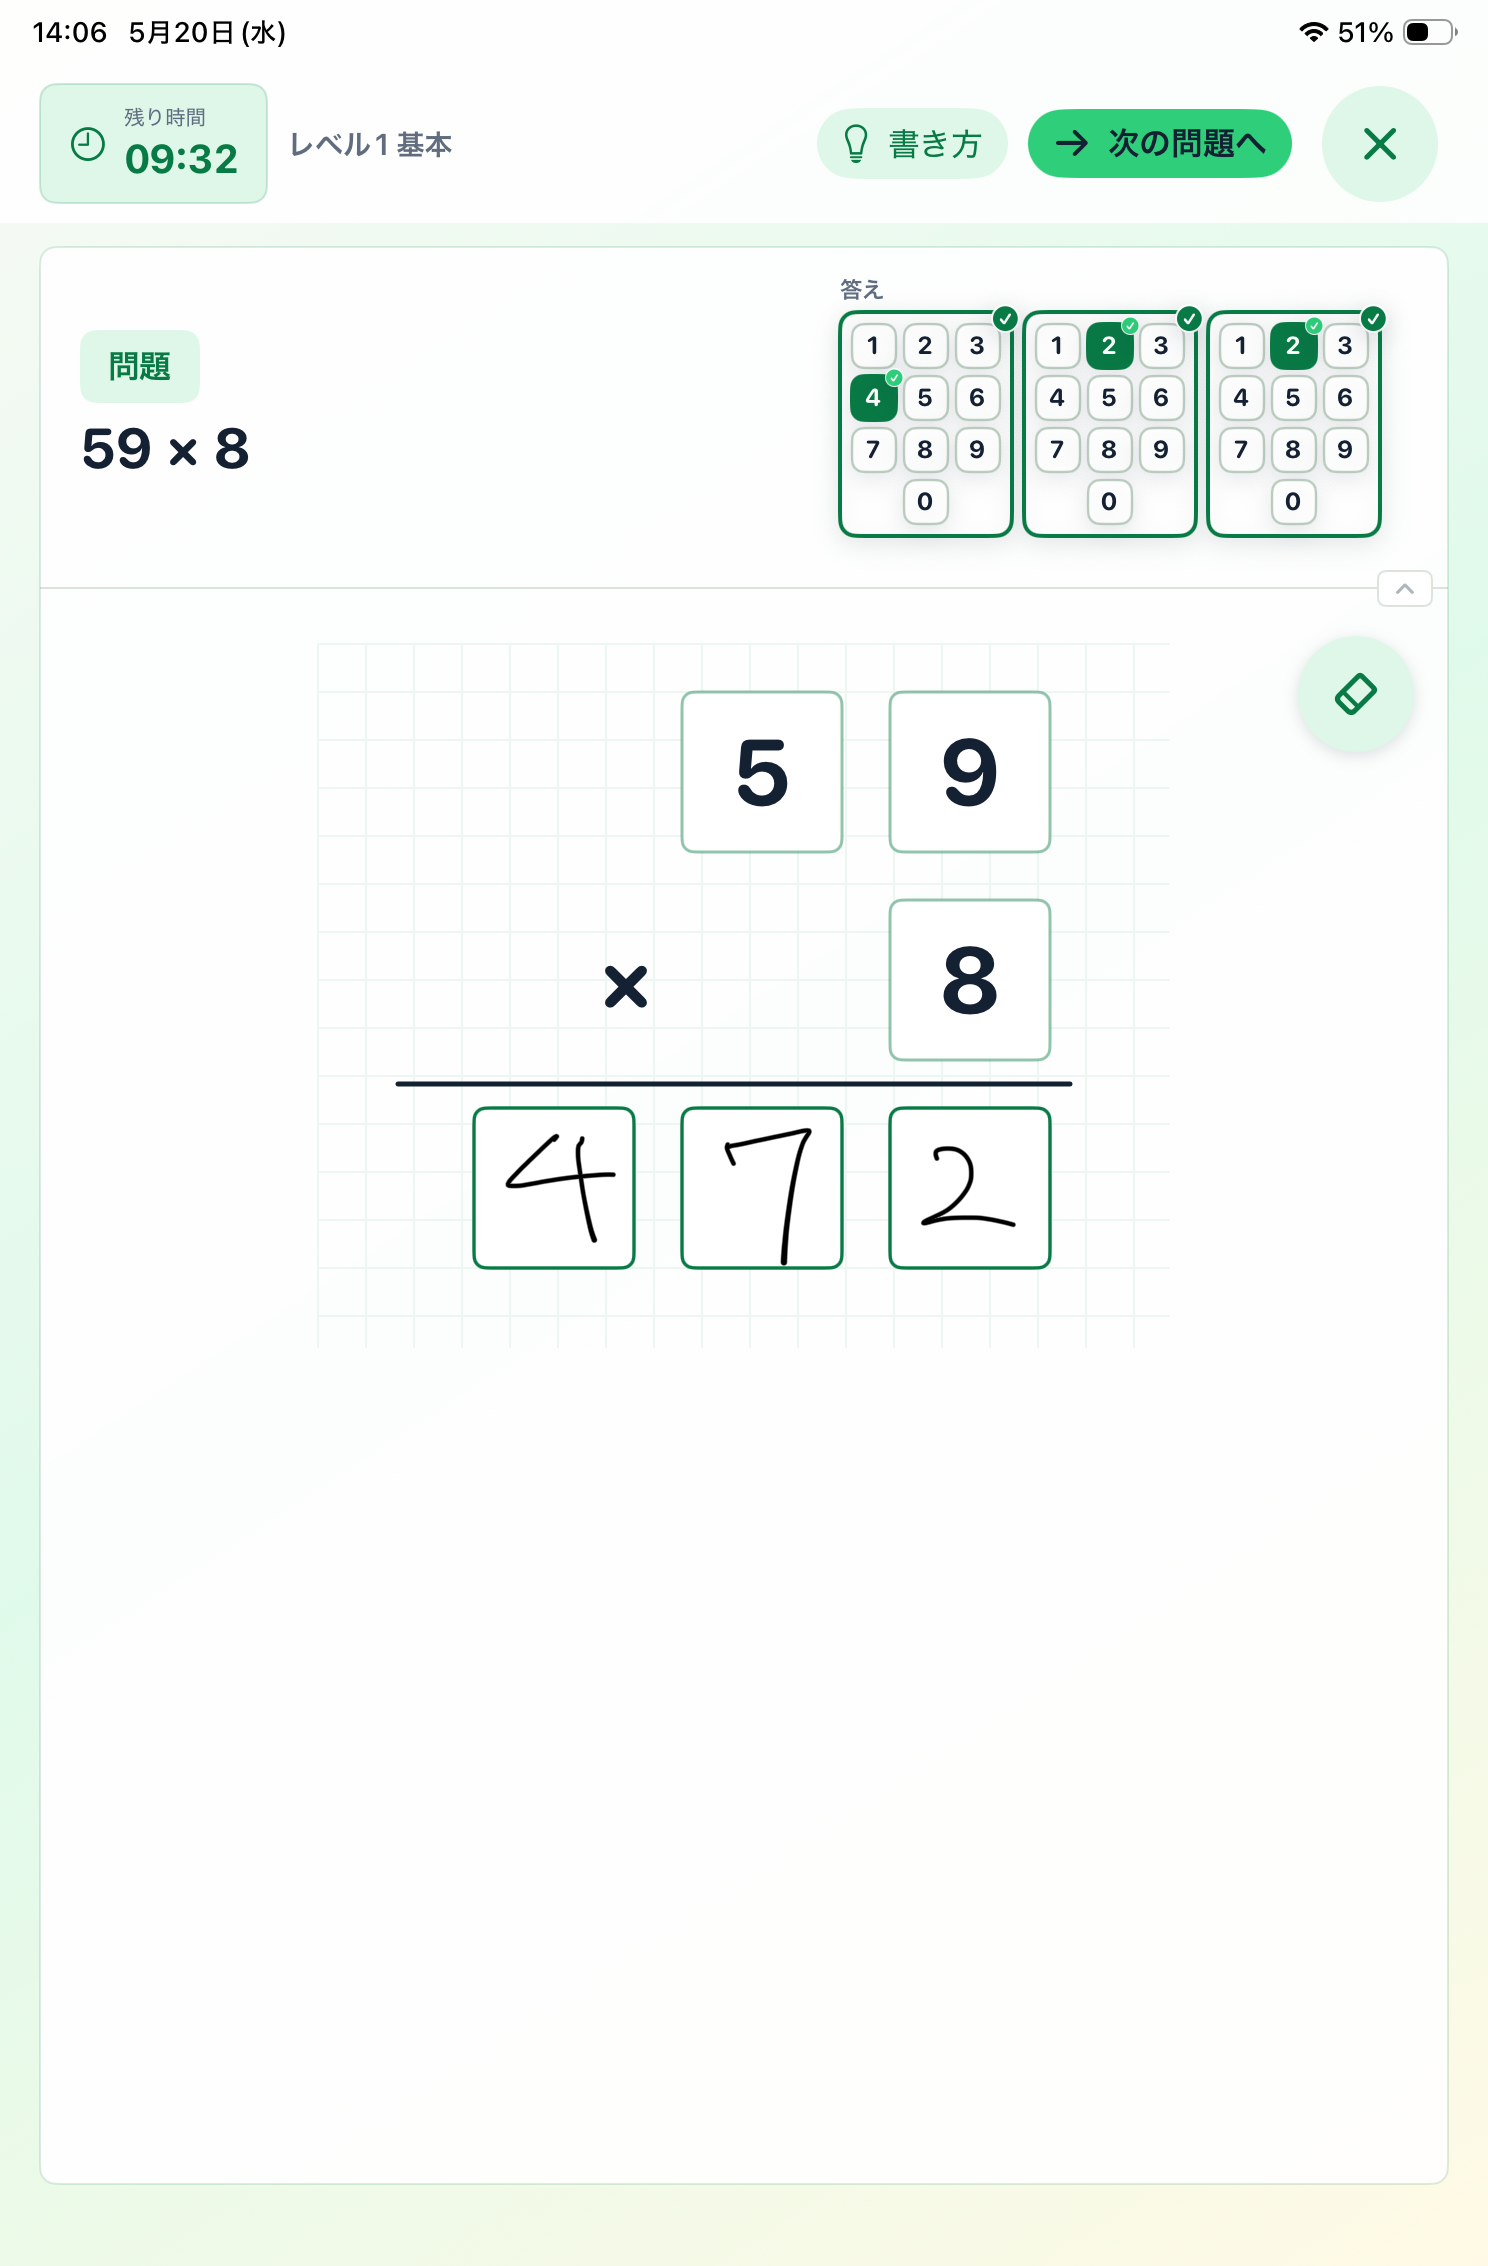
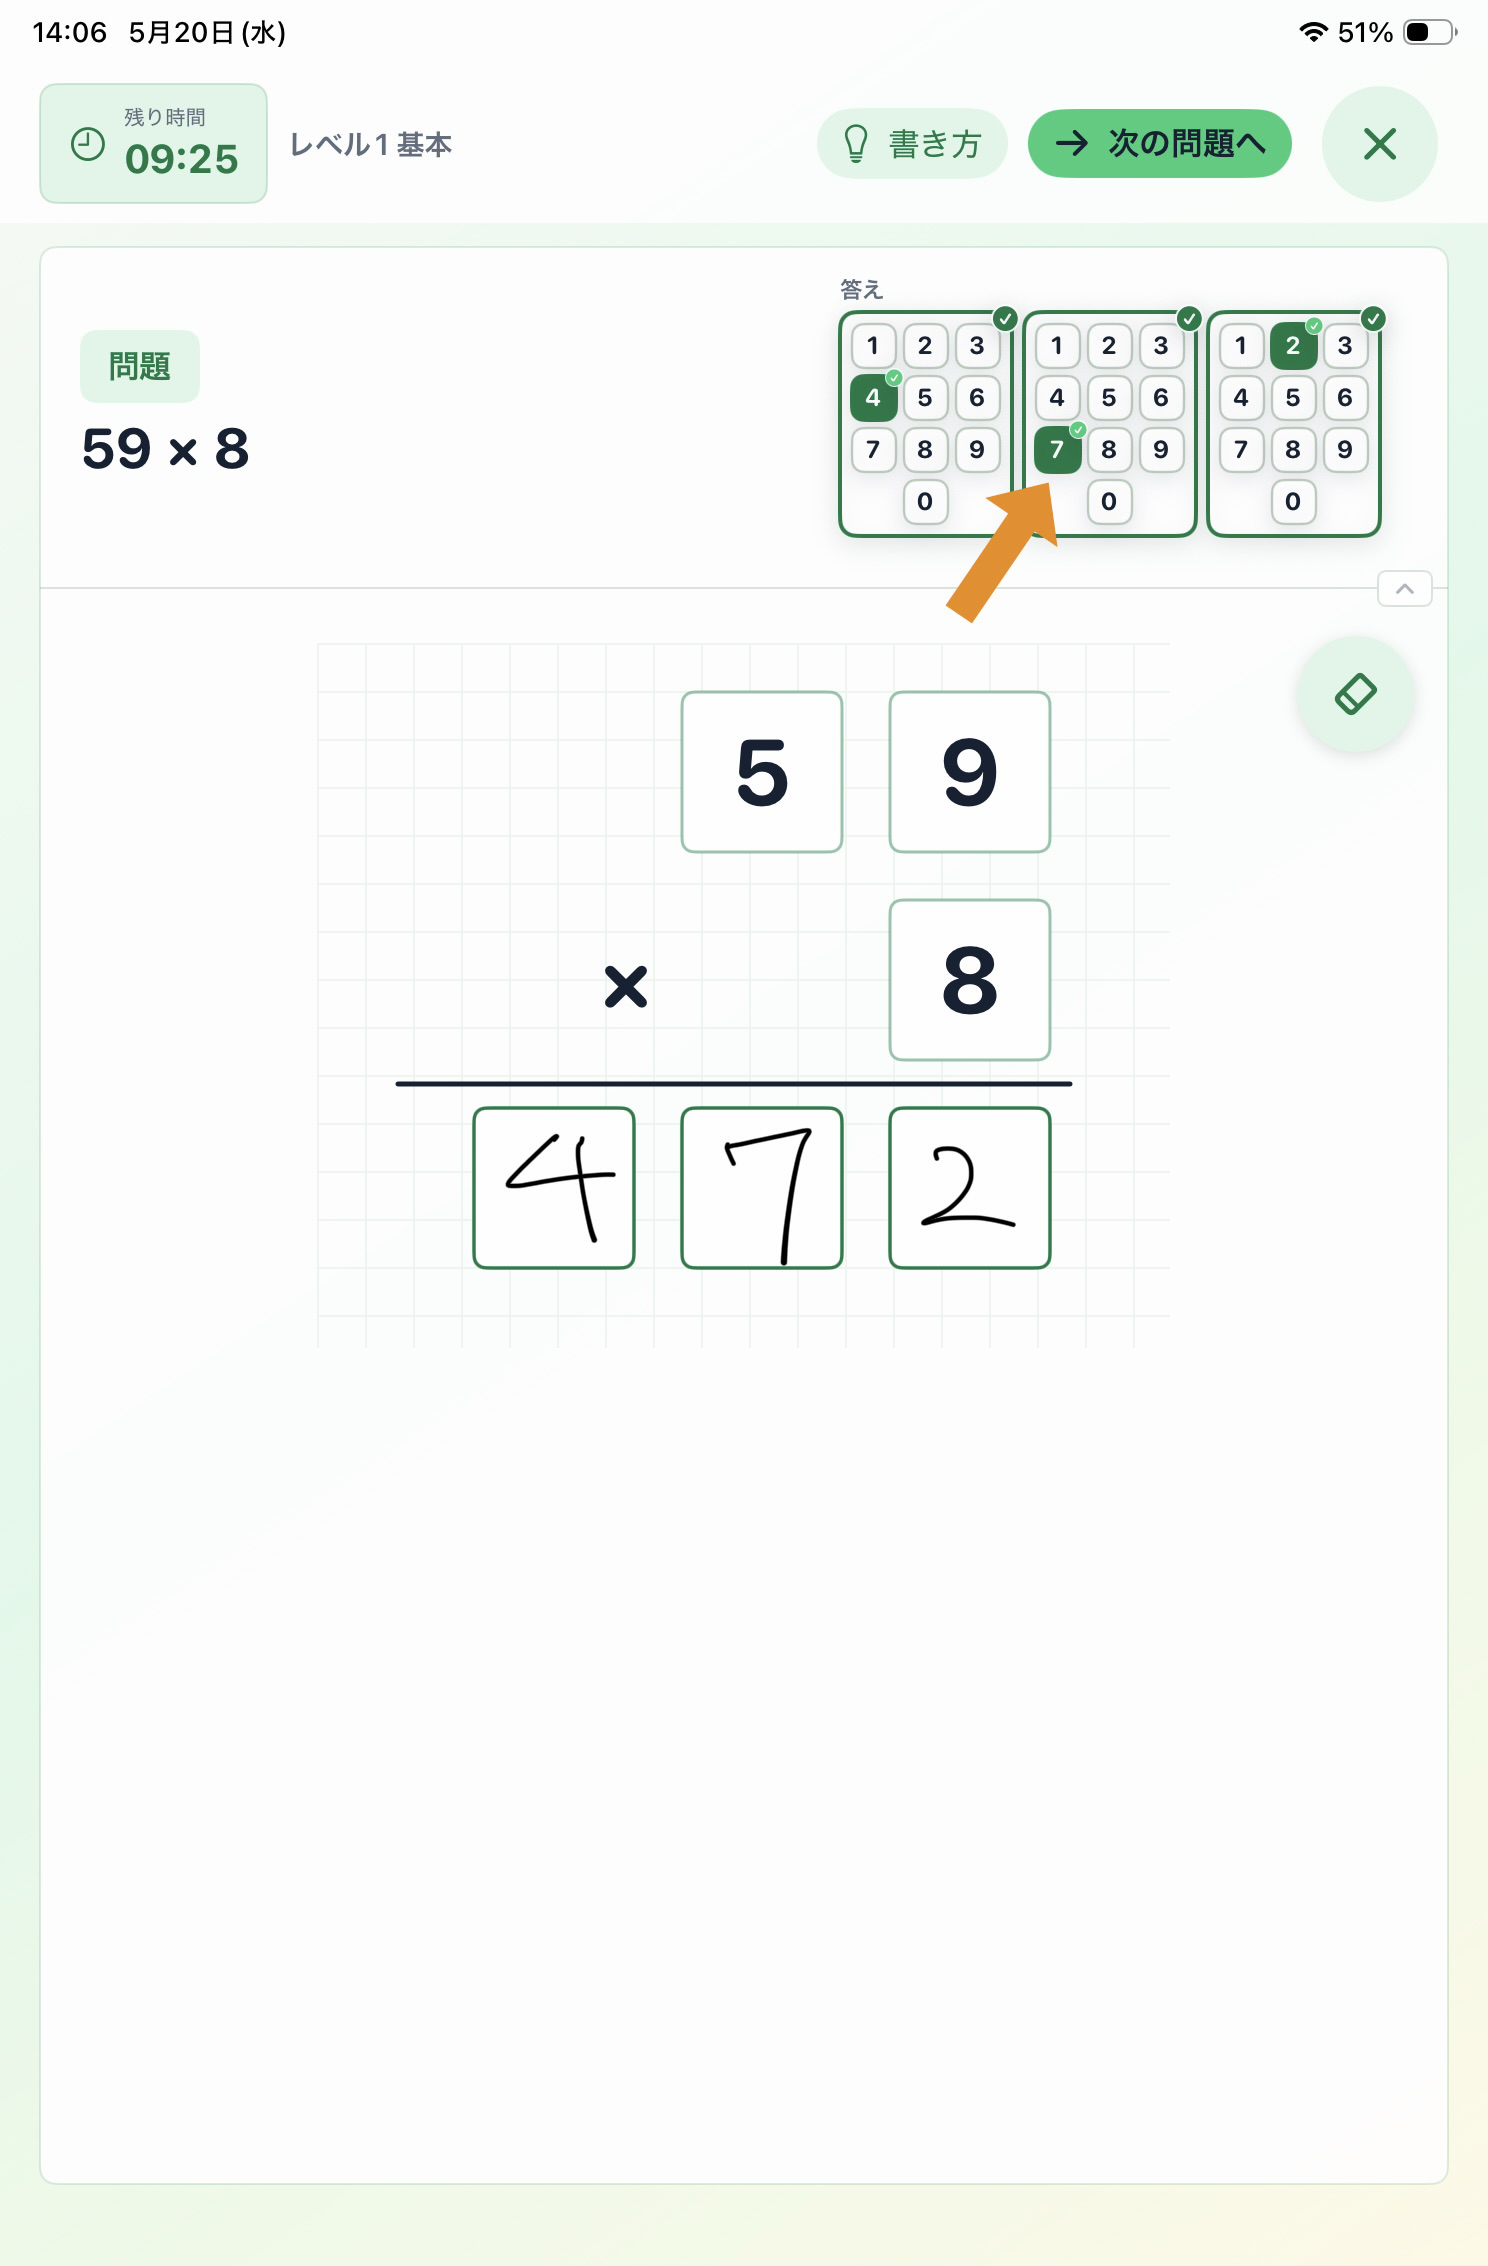
fix: 掛け算説明書の読み取り修正ステップを整理

diff --git a/multiplicationmaster3/manual/index.html b/multiplicationmaster3/manual/index.html
@@ -477,29 +477,6 @@
         </div>
       </section>
 
-      <section class="step" id="check">
-        <div class="shot-wrap">
-          <div class="shot-pair">
-            <div class="device">
-              <img src="images/recognition-correction.png" alt="練習画面。書いた数字と、読み取り候補の数字ボタンが表示されている。">
-            </div>
-            <div class="device">
-              <img src="images/practice-complete.png" alt="練習画面。答えの数字が入力され、次の問題へボタンが押せる状態。">
-            </div>
-          </div>
-        </div>
-        <div class="copy">
-          <div class="label"><span>4</span>次の問題へ</div>
-          <h2>答えをたしかめて進む</h2>
-          <p class="summary">最後まで書けたら、答えがそろっているか見てから進みます。</p>
-          <ol class="points">
-            <li>答えのマスを最後まで書きます。</li>
-            <li>読み取り候補が出ていたら、正しい数字を選びます。</li>
-            <li>「次の問題へ」が緑になったら押して進みます。</li>
-          </ol>
-        </div>
-      </section>
-
       <section class="step" id="result">
         <div class="shot-wrap">
           <div class="device">
@@ -507,7 +484,7 @@
           </div>
         </div>
         <div class="copy">
-          <div class="label"><span>5</span>結果画面</div>
+          <div class="label"><span>4</span>結果画面</div>
           <h2>結果を見る</h2>
           <p class="summary">時間が終わると、今日の練習結果が出ます。</p>
           <ol class="points">